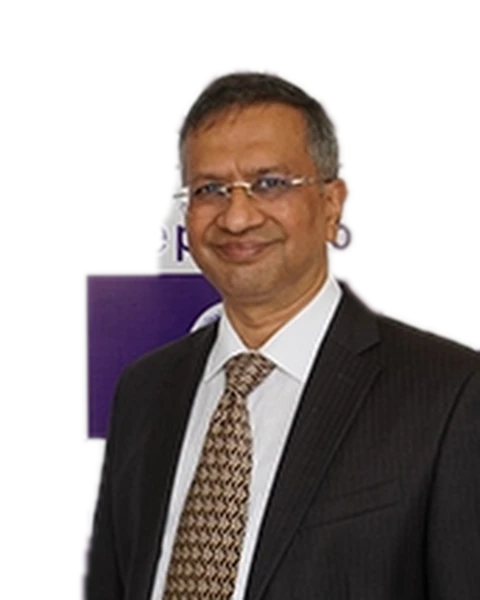
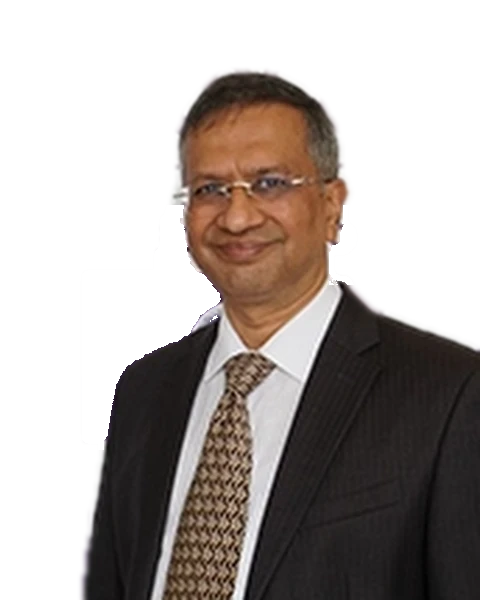
Add one-time leaf vine behind care steps; soften doctor portrait edges
- LeafVine: a sage stem and leaves draw once between the four steps
  (desktop only, instant for reduced motion)
- portrait-fade mask on doctor cut-outs so tight crops no longer end in hard
  vertical edges
- Clean leftover banner pixels from two doctor cut-outs

Changed region(s): [[0.1562, 0.33, 0.4688, 0.75], [0.6875, 0.36, 0.75, 0.42], [0.6875, 0.45, 0.7188, 0.48]]

diff --git a/tulasi-web/web/src/components/motion/LeafVine.tsx b/tulasi-web/web/src/components/motion/LeafVine.tsx
@@ -1,0 +1,53 @@
+"use client";
+// A quiet decorative vine that joins the four care steps. It draws itself once, the
+// first time the section comes into view, leaves unfolding along the way, and then
+// stays still. Not tied to scrolling. Desktop only (the steps stack on smaller screens).
+import { useEffect, useRef, useState } from "react";
+
+// Wave between the four circle centres (viewBox 0..100 wide, stretched to the row).
+const STEM = "M0 20 C 8 6, 25 6, 33.33 20 S 58 34, 66.66 20 S 91 6, 100 20";
+// x%, y (of 40), size, rotation. Each bump carries one larger and one smaller leaf.
+const LEAVES: { x: number; y: number; r: number; s: number; d: number }[] = [
+  { x: 16.5, y: 9.5, r: -38, s: 1.35, d: 0.55 },
+  { x: 17.5, y: 9.5, r: 148, s: 0.95, d: 0.7 },
+  { x: 50, y: 30.5, r: 142, s: 1.35, d: 1.05 },
+  { x: 51, y: 30.5, r: -32, s: 0.95, d: 1.2 },
+  { x: 83.3, y: 9.5, r: -38, s: 1.35, d: 1.55 },
+  { x: 84.3, y: 9.5, r: 148, s: 0.95, d: 1.7 },
+];
+
+export function LeafVine() {
+  const ref = useRef<HTMLDivElement>(null);
+  const [state, setState] = useState<"idle" | "in">("idle");
+
+  useEffect(() => {
+    const el = ref.current;
+    if (!el) return;
+    const io = new IntersectionObserver(
+      ([e]) => {
+        if (!e.isIntersecting) return;
+        setState("in");
+        io.disconnect();
+      },
+      { threshold: 0.5 }
+    );
+    io.observe(el);
+    return () => io.disconnect();
+  }, []);
+
+  return (
+    <div ref={ref} aria-hidden="true" data-vine={state} className="vine pointer-events-none absolute top-0 left-5 hidden h-10 w-[calc(75%+1.125rem)] lg:block">
+      <svg viewBox="0 0 100 40" preserveAspectRatio="none" className="absolute inset-0 size-full overflow-visible">
+        <path d={STEM} pathLength={1} className="vine-stem" fill="none" stroke="var(--color-sage-300)" strokeWidth="1.6" strokeLinecap="round" vectorEffect="non-scaling-stroke" />
+      </svg>
+      {LEAVES.map((l, i) => (
+        <span key={i} className="vine-leaf absolute" style={{ left: `${l.x}%`, top: `${l.y}px`, ["--r" as string]: `${l.r}deg`, ["--s" as string]: l.s, transitionDelay: `${l.d}s` }}>
+          <svg viewBox="0 0 22 12" className="block h-3 w-[22px] -translate-y-1/2" style={{ transformOrigin: "0 50%" }}>
+            <path d="M0 6C4 0 14 0 22 6 14 12 4 12 0 6z" fill="var(--color-sage-500)" fillOpacity="0.5" />
+            <path d="M1 6h15" stroke="var(--color-sage-100)" strokeWidth="0.8" strokeLinecap="round" />
+          </svg>
+        </span>
+      ))}
+    </div>
+  );
+}

diff --git a/tulasi-web/web/src/app/globals.css b/tulasi-web/web/src/app/globals.css
@@ -338,3 +338,23 @@ details.acc > summary::-webkit-details-marker { display: none; }
 .prose-tulasi .lt-quote figcaption { display: flex; align-items: center; gap: 0.75rem; margin-top: auto; }
 .prose-tulasi .lt-avatar { display: grid; place-items: center; width: 2.5rem; height: 2.5rem; border-radius: 50%; background: var(--color-sage-100); font-size: 0.8rem; font-weight: 600; color: var(--color-sage-700); }
 .prose-tulasi .lt-quote h6 { margin: 0; font-size: 0.95rem; }
+
+/* ───── Doctor cut-outs: the source photos are tight crops, so jackets end in hard
+   vertical edges. Fade the sides and bottom into the card colour instead. ───── */
+.portrait-fade {
+  -webkit-mask-image: linear-gradient(to bottom, #000 76%, transparent 100%), linear-gradient(to right, transparent 0, #000 13%, #000 87%, transparent 100%);
+  -webkit-mask-composite: source-in;
+  mask-image: linear-gradient(to bottom, #000 76%, transparent 100%), linear-gradient(to right, transparent 0, #000 13%, #000 87%, transparent 100%);
+  mask-composite: intersect;
+}
+
+/* ───── Care-steps vine: draws once when first seen, then rests. ───── */
+.vine .vine-stem { stroke-dasharray: 1; stroke-dashoffset: 1; transition: stroke-dashoffset 2.2s var(--ease-calm); }
+.vine[data-vine="in"] .vine-stem { stroke-dashoffset: 0; }
+.vine .vine-leaf { opacity: 0; transform-origin: 0 0; transform: rotate(var(--r)) scale(0); transition: transform 0.9s var(--ease-calm), opacity 0.6s ease; }
+.vine[data-vine="in"] .vine-leaf { opacity: 1; transform: rotate(var(--r)) scale(var(--s)); }
+@media (prefers-reduced-motion: reduce) {
+  .vine .vine-stem, .vine .vine-leaf { transition: none; }
+  .vine .vine-stem { stroke-dashoffset: 0; }
+  .vine .vine-leaf { opacity: 1; transform: rotate(var(--r)) scale(var(--s)); }
+}

diff --git a/tulasi-web/web/src/app/page.tsx b/tulasi-web/web/src/app/page.tsx
@@ -8,6 +8,7 @@ import { getDoctors, getHome, getPageByPath, getSite } from "@/lib/content";
 import { faqSchema, metadataFromSeo } from "@/lib/seo";
 import { Arrow, BrandIcon, btnClass, ButtonLink, Icon, JsonLd, Reveal, SectionHeading } from "@/components/ui/primitives";
 import { TeamMember } from "@/components/team";
+import { LeafVine } from "@/components/motion/LeafVine";
 import { TrackedLink } from "@/components/layout/TrackedLink";
 import { OpenChatButton } from "@/components/chat/OpenChatButton";
 import { CONCERN_ICON, CONCERNS, PATHWAYS, type Pathway } from "@/lib/care";
@@ -185,7 +186,9 @@ export default function Home() {
       <section className={`${sectionPad} bg-mist`}>
         <div className="container-page">
           <SectionHeading title="From the first conversation to life after treatment, we walk with you." className="max-w-3xl" />
-          <ol className="mt-10 grid gap-8 sm:grid-cols-2 lg:grid-cols-4 lg:gap-6">
+          <div className="relative mt-10">
+          <LeafVine />
+          <ol className="grid gap-8 sm:grid-cols-2 lg:grid-cols-4 lg:gap-6">
             {STEPS.map((s, i) => (
               <Reveal as="li" key={s.title} delay={i * 70} className="relative">
                 <span className="grid size-10 place-items-center rounded-full bg-white font-display text-sm font-semibold text-sage-700 shadow-[inset_0_0_0_1px_var(--color-sage-200)]">{i + 1}</span>
@@ -194,6 +197,7 @@ export default function Home() {
               </Reveal>
             ))}
           </ol>
+          </div>
         </div>
       </section>
 

diff --git a/tulasi-web/web/src/app/team/[slug]/page.tsx b/tulasi-web/web/src/app/team/[slug]/page.tsx
@@ -43,7 +43,7 @@ export default async function DoctorPage({ params }: PageProps<"/team/[slug]">) 
           <Reveal variant="scale" className="mx-auto w-full max-w-[200px] sm:max-w-[280px] lg:max-w-none">
             <div className="relative aspect-[4/5] overflow-hidden rounded-[1.75rem] bg-sage-50 shadow-[0_0_0_1px_rgb(23_34_44/0.05)]">
               {portrait ? (
-                <Image src={portrait.src} alt={`${d.name}, ${d.designation ?? ""}`} fill priority sizes="(min-width:1024px) 340px, 300px" className={portrait.cutout ? "object-cover object-bottom" : "object-cover object-[50%_25%]"} />
+                <Image src={portrait.src} alt={`${d.name}, ${d.designation ?? ""}`} fill priority sizes="(min-width:1024px) 340px, 300px" className={portrait.cutout ? "portrait-fade object-cover object-bottom" : "object-cover object-[50%_25%]"} />
               ) : (
                 <span className="absolute inset-0 grid place-items-center font-display text-7xl font-semibold text-sage-300">{initials}</span>
               )}

diff --git a/tulasi-web/web/src/components/team.tsx b/tulasi-web/web/src/components/team.tsx
@@ -50,7 +50,7 @@ export function PortraitCard({ d, index = 0, size = "md", tabbable = true, prior
           fill
           priority={priority}
           sizes={size === "lg" ? "(min-width:1024px) 280px, 50vw" : "220px"}
-          className={clsx("transition-transform duration-500 ease-[var(--ease-calm)] group-hover:scale-[1.03]", p.cutout ? "object-cover object-bottom" : "scale-[1.1] object-cover object-[50%_30%]")}
+          className={clsx("transition-transform duration-500 ease-[var(--ease-calm)] group-hover:scale-[1.03]", p.cutout ? "portrait-fade object-cover object-bottom" : "scale-[1.1] object-cover object-[50%_30%]")}
         />
       )}
       {p && !p.cutout && <span aria-hidden="true" className="absolute inset-x-0 top-0 h-[40%]" style={{ background: `linear-gradient(to bottom, ${bg} 20%, ${bg}cc 55%, transparent)` }} />}

diff --git a/tulasi-web/web/src/components/team/TeamExplorer.tsx b/tulasi-web/web/src/components/team/TeamExplorer.tsx
@@ -110,7 +110,7 @@ function MemberCard({ p }: { p: TeamPerson }) {
             alt={`${p.name}, ${p.designation}`}
             fill
             sizes="(min-width:1280px) 230px, (min-width:1024px) 22vw, (min-width:640px) 30vw, 46vw"
-            className={clsx("object-cover transition-transform duration-500 ease-[var(--ease-calm)] group-hover:scale-[1.03]", p.cutout ? "object-bottom" : "object-[50%_30%]")}
+            className={clsx("object-cover transition-transform duration-500 ease-[var(--ease-calm)] group-hover:scale-[1.03]", p.cutout ? "portrait-fade object-bottom" : "object-[50%_30%]")}
           />
         )}
         {p.experience && (
